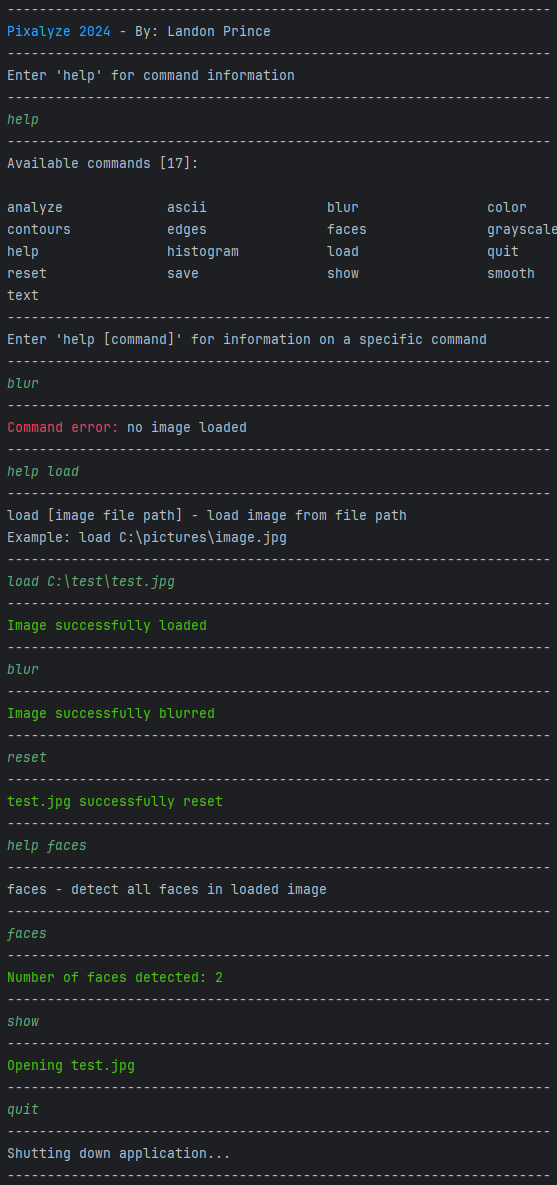
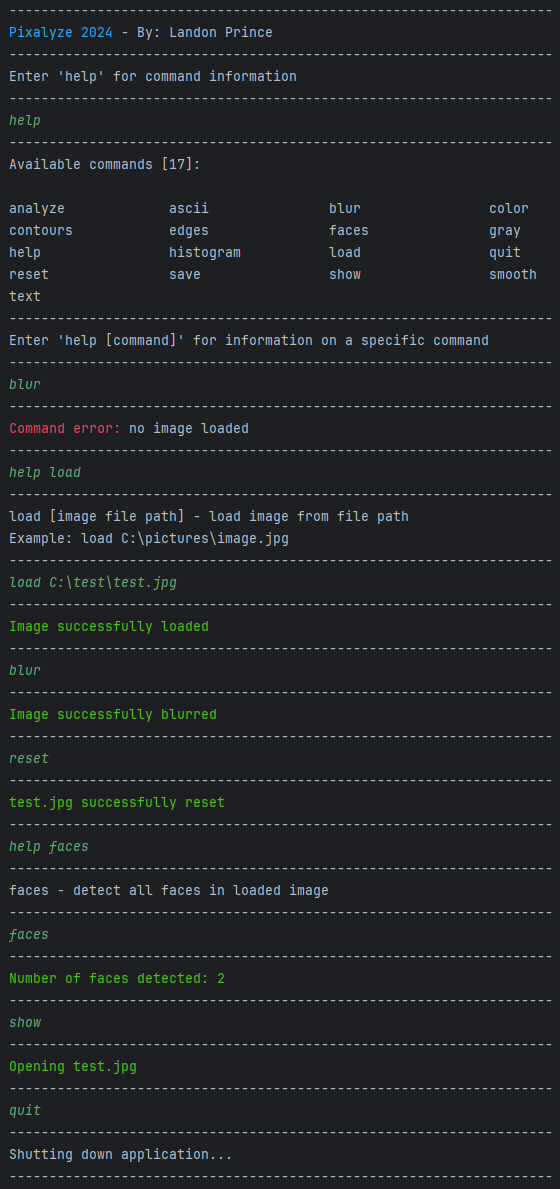
v18 - fixes

diff --git a/src/core/command_factory.cpp b/src/core/command_factory.cpp
@@ -7,7 +7,7 @@
 #include "commands/load_command.h"
 #include "commands/show_command.h"
 #include "commands/analyze_command.h"
-#include "commands/grayscale_command.h"
+#include "commands/gray_command.h"
 #include "commands/color_command.h"
 #include "commands/save_command.h"
 #include "commands/edges_command.h"
@@ -49,8 +49,8 @@ void CommandFactory::registerCommands() {
                         [this]() { return this->makeShow(); });
     ct->registerCommand("analyze", &AnalyzeCommand::help,
                         [this]() { return this->makeAnalyze(); });
-    ct->registerCommand("grayscale", &GrayscaleCommand::help,
-                        [this]() { return this->makeGrayscale(); });
+    ct->registerCommand("gray", &GrayCommand::help,
+                        [this]() { return this->makeGray(); });
     ct->registerCommand("color", &ColorCommand::help,
                         [this]() { return this->makeColor(); });
     ct->registerCommand("save", &SaveCommand::help,
@@ -108,8 +108,8 @@ Command CommandFactory::makeAnalyze() {
     return Command(new AnalyzeCommand(im));
 }
 
-Command CommandFactory::makeGrayscale() {
-    return Command(new GrayscaleCommand(im));
+Command CommandFactory::makeGray() {
+    return Command(new GrayCommand(im));
 }
 
 Command CommandFactory::makeColor() {

diff --git a/include/commands/gray_command.h b/include/commands/gray_command.h
@@ -1,7 +1,7 @@
 // By: Landon Prince (5/12/2024)
 
-#ifndef PIXALYZE_GRAYSCALE_COMMAND_H
-#define PIXALYZE_GRAYSCALE_COMMAND_H
+#ifndef PIXALYZE_GRAY_COMMAND_H
+#define PIXALYZE_GRAY_COMMAND_H
 
 #include "command_impl.h"
 
@@ -9,14 +9,14 @@
  * Represents a request to turn a loaded image to grayscale
  * @extends CommandImpl
  */
-class GrayscaleCommand final : public CommandImpl {
+class GrayCommand final : public CommandImpl {
 public:
-    GrayscaleCommand() = delete; // only allow factory to create
+    GrayCommand() = delete; // only allow factory to create
 
     // Default destructor, copy-constructor and assignment
-    ~GrayscaleCommand() override = default;
-    GrayscaleCommand(const GrayscaleCommand&) = default;
-    GrayscaleCommand& operator=(const GrayscaleCommand&) = default;
+    ~GrayCommand() override = default;
+    GrayCommand(const GrayCommand&) = default;
+    GrayCommand& operator=(const GrayCommand&) = default;
 
     /**
      * Execute the command
@@ -36,7 +36,7 @@ private:
      * Primary constructor
      * @param im ImageManager against which it executes
      */
-    explicit GrayscaleCommand(ImageManager* im);
+    explicit GrayCommand(ImageManager* im);
 };
 
-#endif //PIXALYZE_GRAYSCALE_COMMAND_H
+#endif //PIXALYZE_GRAY_COMMAND_H

diff --git a/src/commands/gray_command.cpp b/src/commands/gray_command.cpp
@@ -1,0 +1,20 @@
+// By: Landon Prince (5/12/2024)
+
+#include "core/utils.h"
+#include "core/image_manager.h"
+#include "commands/gray_command.h"
+#include <iostream>
+
+bool GrayCommand::execute() {
+    im->toGray();
+    return true;
+}
+
+void GrayCommand::help() {
+    Utils::addSeparator();
+    std::cout << "gray - converts loaded image from color to grayscale\n";
+    Utils::addSeparator();
+}
+
+GrayCommand::GrayCommand(ImageManager *im) : CommandImpl(im) {}
+

diff --git a/include/core/command_factory.h b/include/core/command_factory.h
@@ -68,10 +68,10 @@ public:
     Command makeAnalyze();
 
     /**
-     * Make a grayscale command
-     * @return GrayscaleCommand instance (fully bridged)
+     * Make a gray command
+     * @return GrayCommand instance (fully bridged)
      */
-    Command makeGrayscale();
+    Command makeGray();
 
     /**
      * Make a color command

diff --git a/include/core/image_manager.h b/include/core/image_manager.h
@@ -83,8 +83,14 @@ public:
      */
     void resetImage();
 
+    /**
+     * create a histogram from loaded image based on pixel value
+     */
     void createHistogram() const;
 
+    /**
+     * detect all faces in loaded image
+     */
     void detectFaces();
 
 private:
